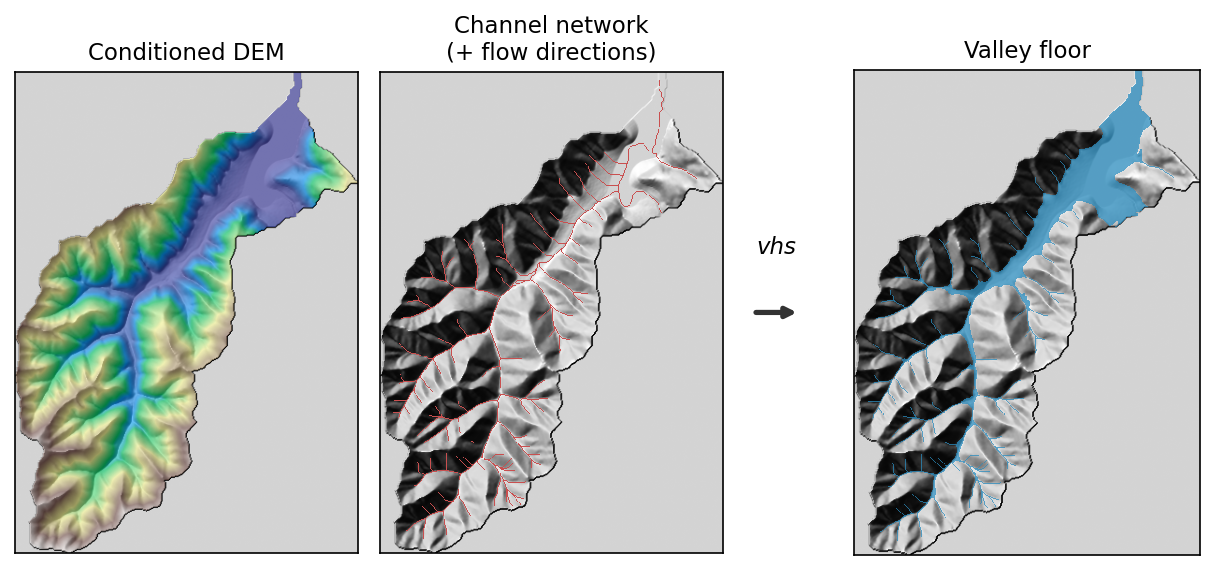
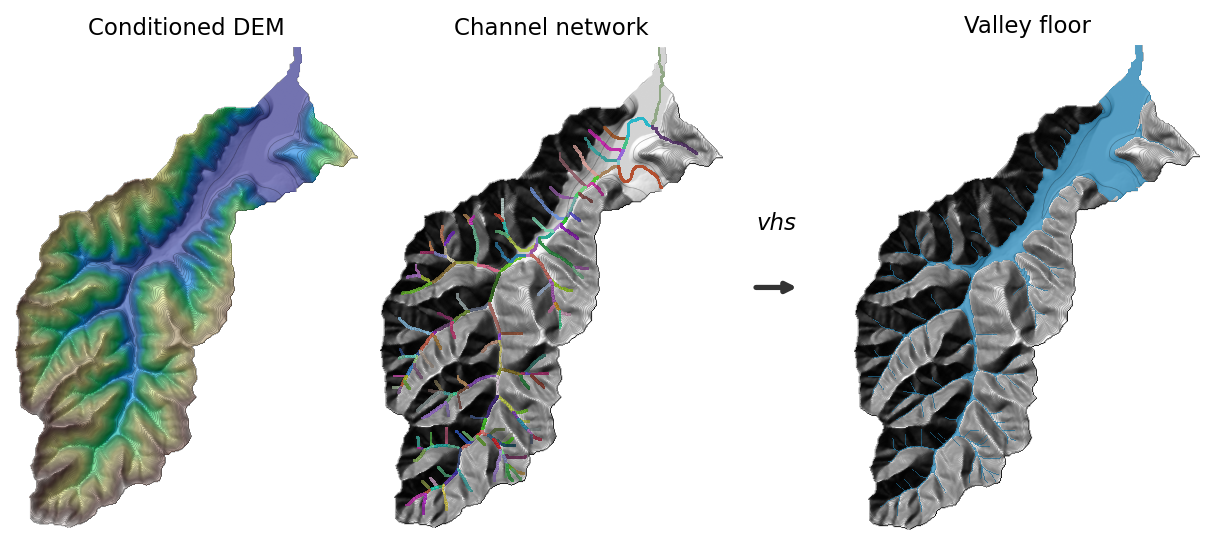
regenerate graphical abstract

diff --git a/scripts/make_readme_figures.py b/scripts/make_readme_figures.py
@@ -16,6 +16,7 @@ import matplotlib
 matplotlib.use("Agg")
 import matplotlib.pyplot as plt
 from matplotlib.colors import LightSource, ListedColormap
+from scipy.ndimage import maximum_filter
 
 import vhs
 
@@ -29,14 +30,31 @@ def _extent(da):
 
 def _hillshade(dem):
     ls = LightSource(azdeg=315, altdeg=45)
+    valid = np.isfinite(dem.values)
     z = np.nan_to_num(dem.values, nan=np.nanmin(dem.values))
-    return ls.hillshade(z, vert_exag=2)
+    hs = ls.hillshade(z, vert_exag=2)
+    hs[~valid] = np.nan  # nodata stays transparent instead of flat mid-grey
+    return hs
 
 
 def _panel(ax, title):
+    ax.set_facecolor("white")
     ax.set_title(title, fontsize=11, pad=6)
     ax.set_xticks([])
     ax.set_yticks([])
+    for spine in ax.spines.values():
+        spine.set_visible(False)
+
+
+def _add_contours(ax, dem, ext, interval=5):
+    z = dem.values
+    lo = np.floor(np.nanmin(z) / interval) * interval
+    hi = np.nanmax(z)
+    levels = np.arange(lo, hi + interval, interval)
+    ax.contour(
+        z, levels=levels, extent=ext, origin="upper",
+        colors="black", linewidths=0.35, alpha=0.3,
+    )
 
 
 def graphical_abstract(data, out_path):
@@ -54,15 +72,25 @@ def graphical_abstract(data, out_path):
     ax = fig.add_subplot(gs[0, 0])
     ax.imshow(hs, extent=ext, cmap="gray", alpha=1.0)
     ax.imshow(dem.values, extent=ext, cmap="terrain", alpha=0.6)
+    _add_contours(ax, dem, ext)
     _panel(ax, "Conditioned DEM")
 
-    # Channel network (derived from the same flow directions as the DEM's
-    # conditioning) over hillshade
+    # Channel network, colored by reach id, over hillshade
     ax = fig.add_subplot(gs[0, 1])
     ax.imshow(hs, extent=ext, cmap="gray", alpha=1.0)
-    net = np.where(np.isfinite(channel.values) & (channel.values != 0), 1.0, np.nan)
-    ax.imshow(net, extent=ext, cmap=ListedColormap(["#c94f4f"]), interpolation="nearest")
-    _panel(ax, "Channel network\n(+ flow directions)")
+    _add_contours(ax, dem, ext)
+    rng = np.random.default_rng(0)
+    colors = rng.random((256, 3)) * 0.7 + 0.15
+    net_ids = channel.values.copy()
+    valid = np.isfinite(net_ids) & (net_ids != 0)
+    ids = np.unique(net_ids[valid])
+    remap = np.full(net_ids.shape, -1.0)
+    for i, v in enumerate(ids):
+        remap[net_ids == v] = i % 256
+    remap = maximum_filter(remap, size=3)  # thicken 1px lines for legibility
+    remap = np.where(remap >= 0, remap, np.nan)
+    ax.imshow(remap, extent=ext, cmap=ListedColormap(colors), interpolation="nearest")
+    _panel(ax, "Channel network")
 
     # arrow
     ax = fig.add_subplot(gs[0, 2])
@@ -74,6 +102,7 @@ def graphical_abstract(data, out_path):
     # Valley floor over hillshade
     ax = fig.add_subplot(gs[0, 3])
     ax.imshow(hs, extent=ext, cmap="gray")
+    _add_contours(ax, dem, ext)
     vf = np.where(floor.values == 1, 1.0, np.nan)
     ax.imshow(vf, extent=ext, cmap=ListedColormap(["#2b8cbe"]), alpha=0.75,
               interpolation="nearest")

diff --git a/README.md b/README.md
@@ -2,14 +2,14 @@
 
 [![DOI](https://zenodo.org/badge/DOI/10.5281/zenodo.21685156.svg)](https://doi.org/10.5281/zenodo.21685156)
 
-vhs (Valley Hillslope Separator) is a Python package for delineating valley floors from digital elevation models (DEMs).
+vhs (valley hillslope separator) is a Python package for delineating valley floors from digital elevation models (DEMs).
 
 ![Valley floor delineation from a conditioned DEM and a labeled channel network](https://raw.githubusercontent.com/avkoehl/vhs/main/assets/graphical_abstract.png)
 
 Valley floors are the topographic region between valley walls shaped mainly by fluvial
 processes, composed of floodplains, terraces, alluvial fans, and channels. From a
 hydrologically conditioned DEM and a reach-labeled channel network, `vhs` produces a
-binary valley floor raster. D8 flow directions are computed internally from the DEM.
+binary valley floor raster. 
 
 The method combines two components:
 
@@ -30,15 +30,10 @@ pip install valleyfloor
 
 ## Usage
 
-With your own conditioned DEM and channel network (both `xarray.DataArray`s on the
-same grid). `dem` must be hydrologically conditioned - D8 flow directions are computed
-from it internally, so that pairing is always consistent. `channel_network` (a
-reach-labeled raster) must be derived using the same flat tie-break convention
-`vhs.utils.routing.compute_flow_directions` uses: ties flow toward the strictly larger
-row-major index. Reach flooding routes along the computed flow directions, so a channel
-network resolved differently in flats - disproportionately valley bottoms and
-floodplains - produces meaningless results there; this isn't validated, since it can't
-be verified from the rasters alone.
+With your own conditioned DEM and channel network (both `xarray.DataArray`s on
+the same grid). `dem` must be hydrologically conditioned - D8 flow directions
+are computed from it internally,  `channel_network` (a reach-labeled raster)
+must align with the hydro conditioned dem.
 
 ```python
 from vhs import map_valley_floor, Parameters
